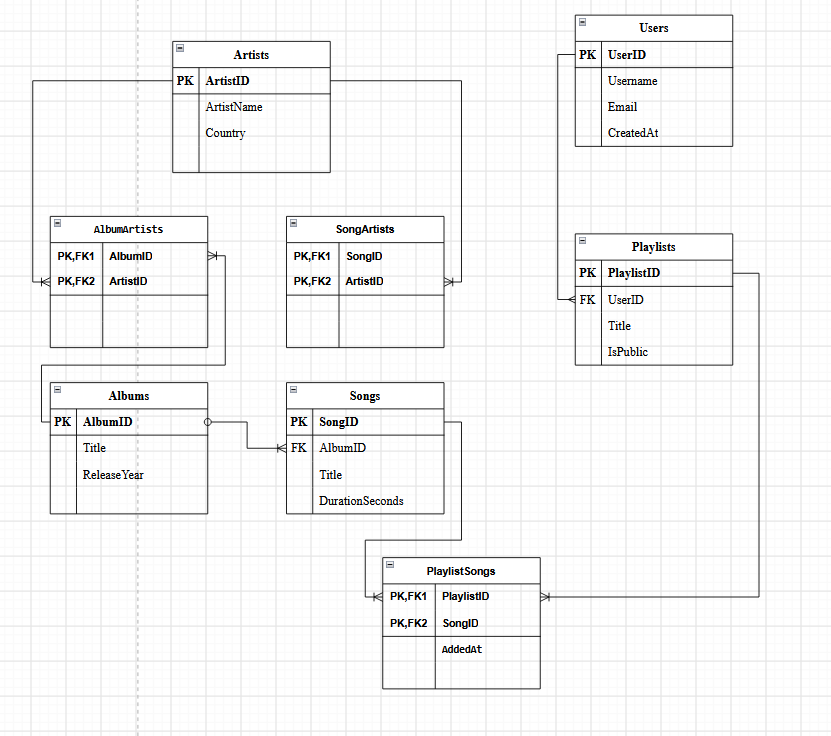
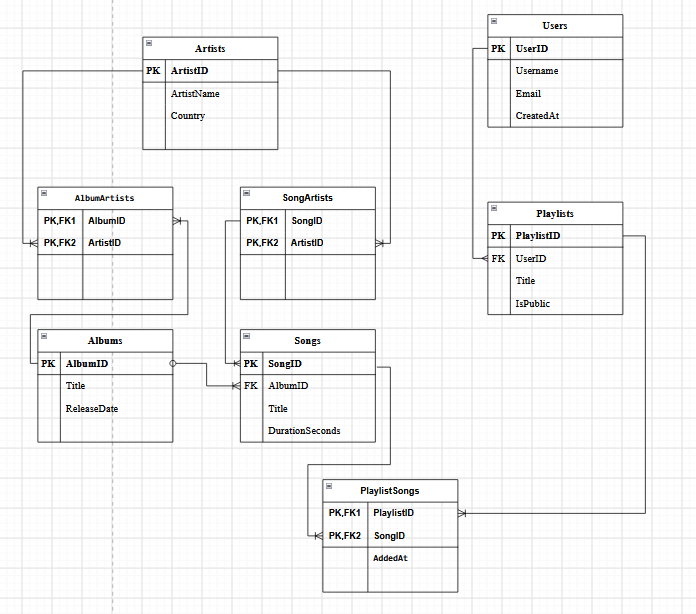
update ER diagram and table constraints

Changed region(s): [[0.0302, 0.0, 0.9353, 0.9902]]

diff --git a/homwork_2.md b/homwork_2.md
@@ -19,7 +19,7 @@
 
 ### Идентификация Сущностей и Атрибутов:
 1. **Артисты (`Artists`):** Исполнители и музыкальные коллективы (`ArtistID`, `ArtistName`, `Country`).
-2. **Альбомы (`Albums`):** Музыкальные альбомы (`AlbumID`, `Title`, `ReleaseYear`).
+2. **Альбомы (`Albums`):** Музыкальные альбомы (`AlbumID`, `Title`, `ReleaseDate`).
 3. **Песни (`Songs`):** Музыкальные треки (`SongID`, `Title`, `DurationSeconds`, `AlbumID`).
 4. **Пользователи (`Users`):** Слушатели сервиса (`UserID`, `Username`, `Email`, `CreatedAt`).
 5. **Плейлисты (`Playlists`):** Подборки треков пользователей (`PlaylistID`, `Title`, `IsPublic`, `UserID`).
@@ -35,21 +35,20 @@
 * **Description:** Хранит сведения о музыкальных исполнителях и группах.
 * **Attributes:**
   * `ArtistID`: `INTEGER`, PK
-  * `ArtistName`: `VARCHAR(150)`, NOT NULL
+  * `ArtistName`: `VARCHAR(150)`, NOT NULL, UNIQUE
   * `Country`: `VARCHAR(100)`
 * **Constraints:**
   * `PK_Artists`: `PRIMARY KEY (ArtistID)`
-  * `UQ_ArtistName`: `UNIQUE (ArtistName)`
 
 #### 2. Table Name: `Albums`
 * **Description:** Хранит информацию о музыкальных альбомах.
 * **Attributes:**
   * `AlbumID`: `INTEGER`, PK
   * `Title`: `VARCHAR(255)`, NOT NULL
-  * `ReleaseYear`: `INTEGER`, NOT NULL
+  * `ReleaseDate`: `DATE`, NOT NULL
 * **Constraints:**
   * `PK_Albums`: `PRIMARY KEY (AlbumID)`
-  * `CHK_ReleaseYear`: `CHECK (ReleaseYear >= 1900 AND ReleaseYear <= 2100)`
+  * `CHK_ReleaseDate`: `CHECK (ReleaseDate >= '1900-01-01' AND ReleaseDate <= '2100-12-31')`
 
 #### 3. Table Name: `AlbumArtists`
 * **Description:** Промежуточная таблица для реализации связи **«многие-ко-многим»** между альбомами и артистами (у альбома может быть несколько авторов).
@@ -83,13 +82,11 @@
 * **Description:** Хранит учетные записи зарегистрированных пользователей.
 * **Attributes:**
   * `UserID`: `INTEGER`, PK
-  * `Username`: `VARCHAR(100)`, NOT NULL
-  * `Email`: `VARCHAR(255)`, NOT NULL
+  * `Username`: `VARCHAR(100)`, NOT NULL, UNIQUE
+  * `Email`: `VARCHAR(255)`, NOT NULL, UNIQUE
   * `CreatedAt`: `TIMESTAMP`, NOT NULL, DEFAULT `CURRENT_TIMESTAMP`
 * **Constraints:**
   * `PK_Users`: `PRIMARY KEY (UserID)`
-  * `UQ_Email`: `UNIQUE (Email)`
-  * `UQ_Username`: `UNIQUE (Username)`
 
 #### 7. Table Name: `Playlists`
 * **Description:** Содержит заголовки и настройки пользовательских плейлистов.
